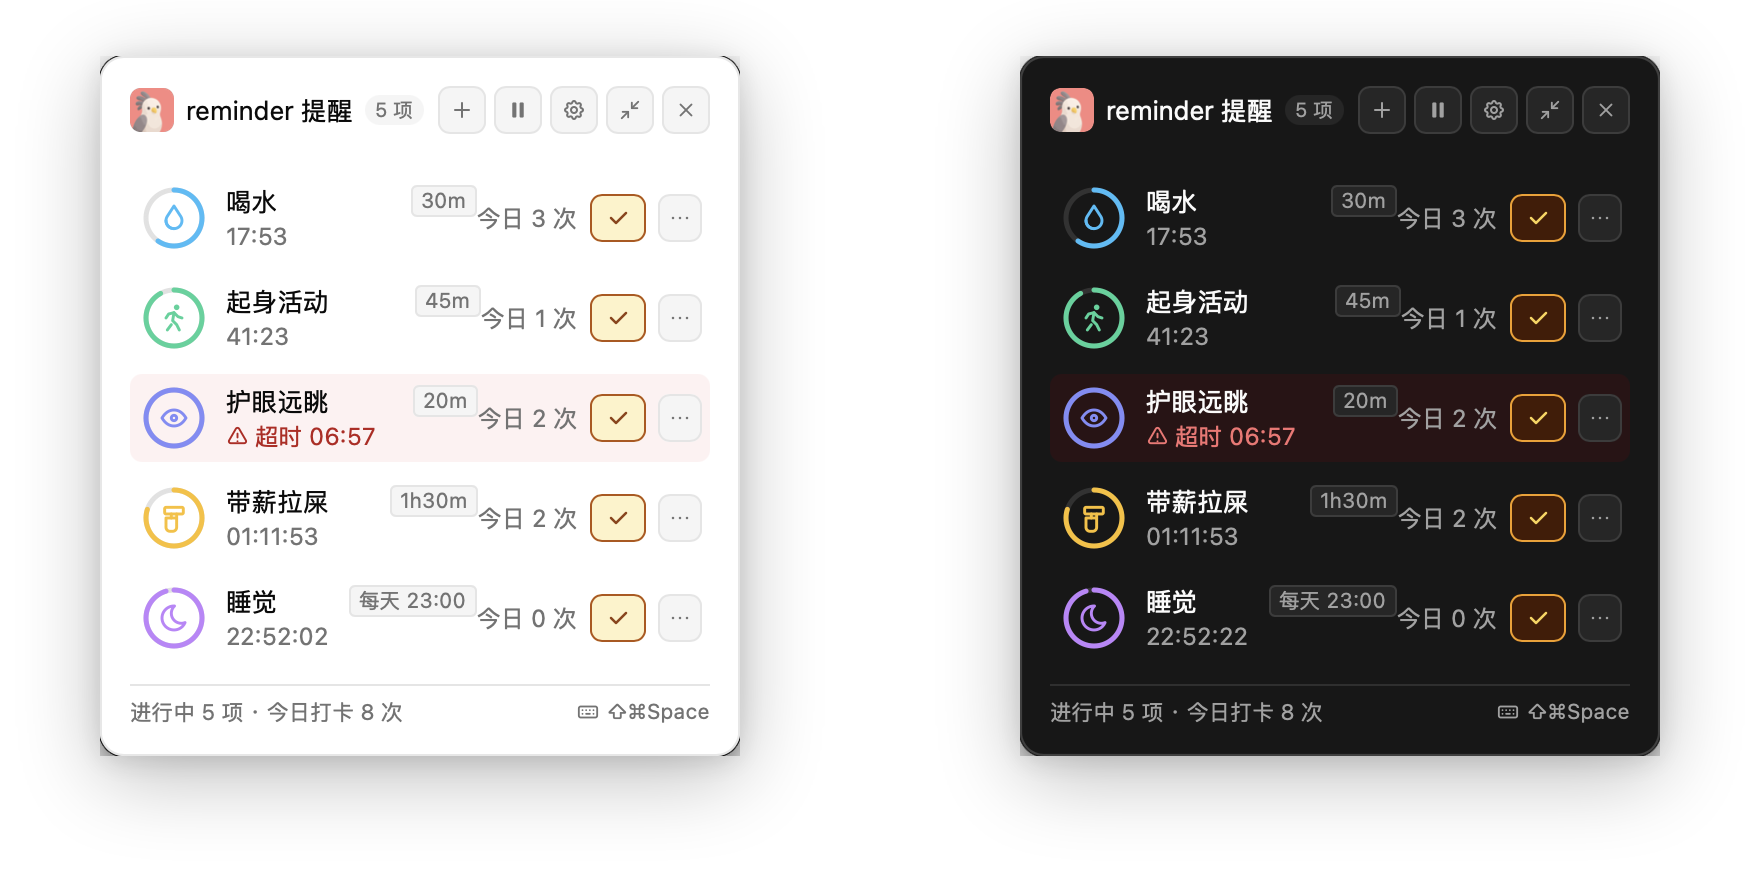
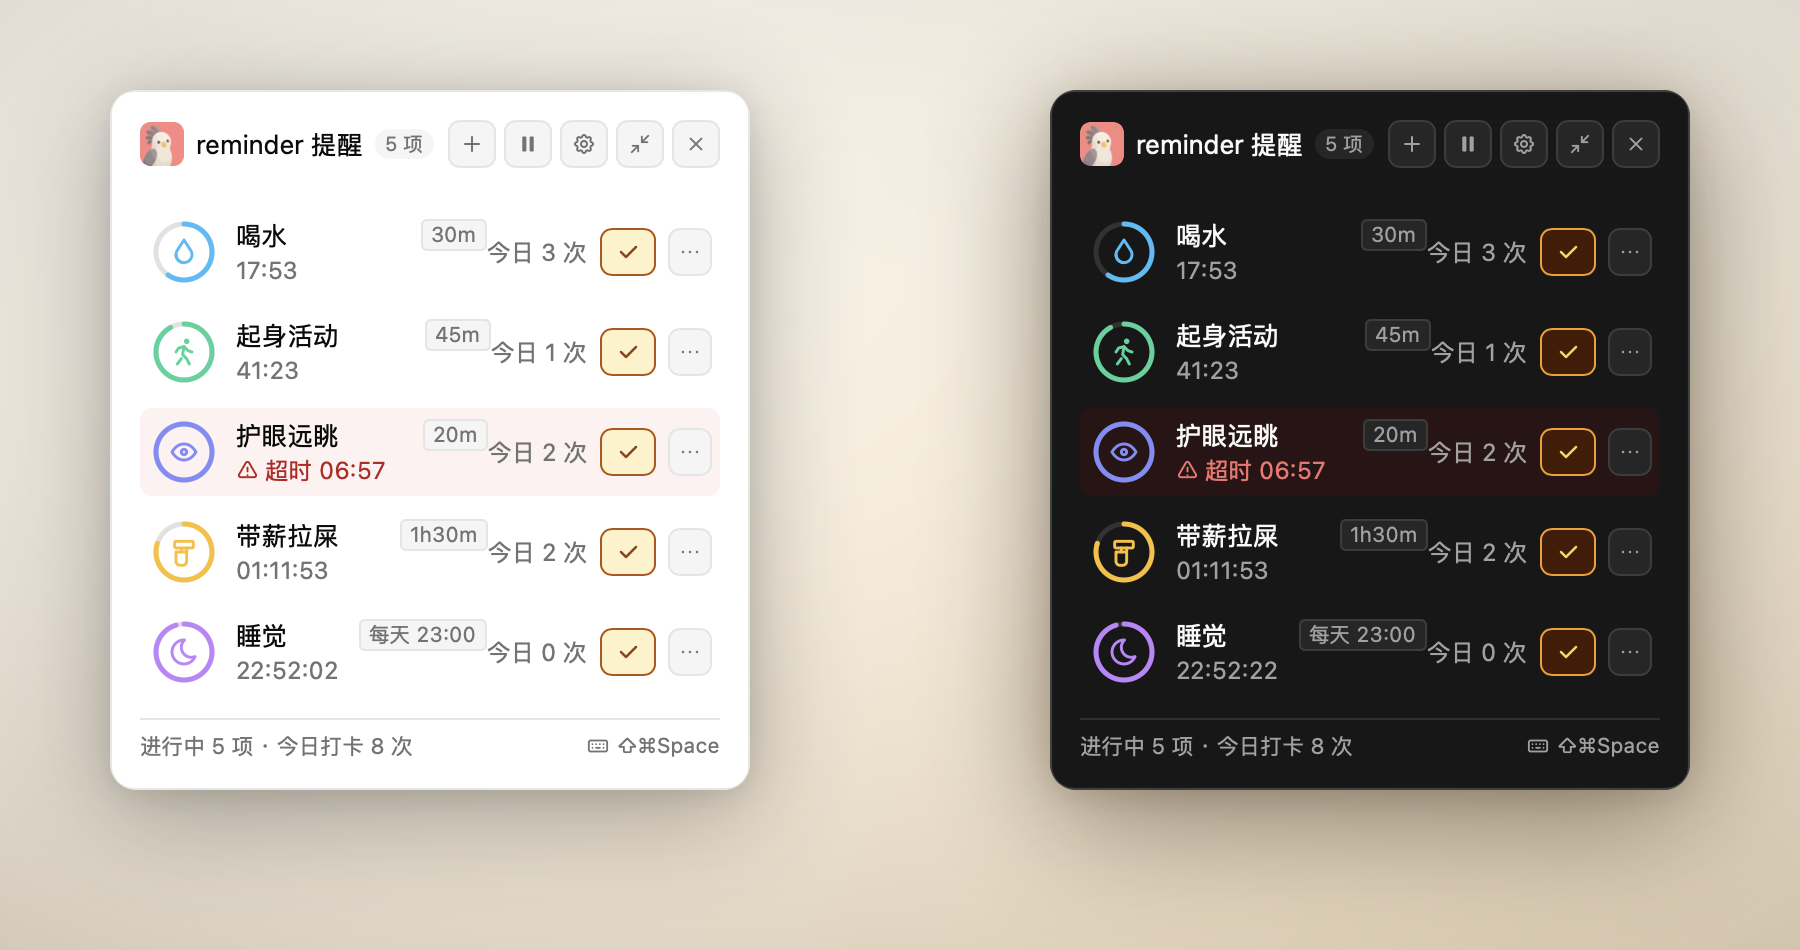
docs: polish screenshot corners

diff --git a/README.md b/README.md
@@ -144,7 +144,7 @@ cargo test                   # 只跑 Rust 侧的无头 UI / 逻辑测试
 
 `App.test.tsx` 用 TypeScript 驱动真实 Rust 根组件，覆盖了主界面、设置抽屉、新建抽屉和表单复位等流程。
 
-README 里的截图不是设计稿：它们由 `nsh test --target macos` 驱动真实窗口，在 macOS 上分别以浅色和深色渲染后截取，再拼成一张对照图。为了在一张图里完整展示抽屉内容，设置和自定义表单的截图把窗口临时拉高了；日常运行时窗口默认是 320×350，内容超出时在卡片内滚动。
+README 里的截图不是设计稿：它们由 `nsh test --target macos` 驱动真实窗口，在 macOS 上分别以浅色和深色渲染后截取，再拼成一张对照图。截图后统一补了背景和投影，并裁掉了窗口自带的圆角阴影边缘。为了在一张图里完整展示抽屉内容，设置和自定义表单的截图把窗口临时拉高了；日常运行时窗口默认是 320×350，内容超出时在卡片内滚动。
 
 ## 平台说明
 
